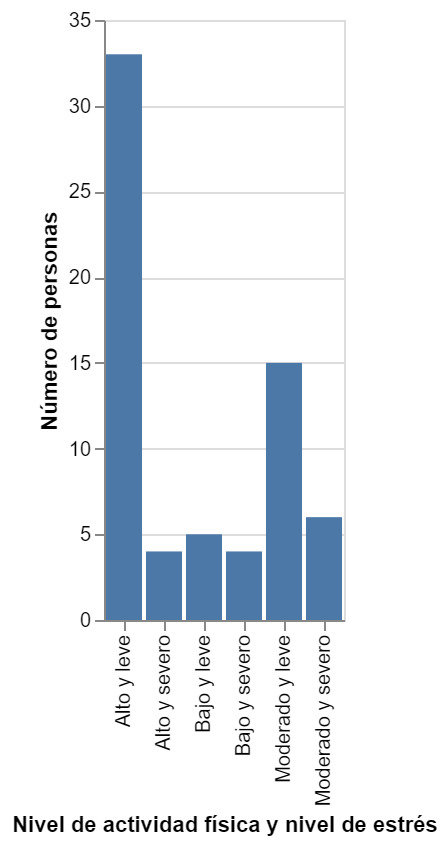
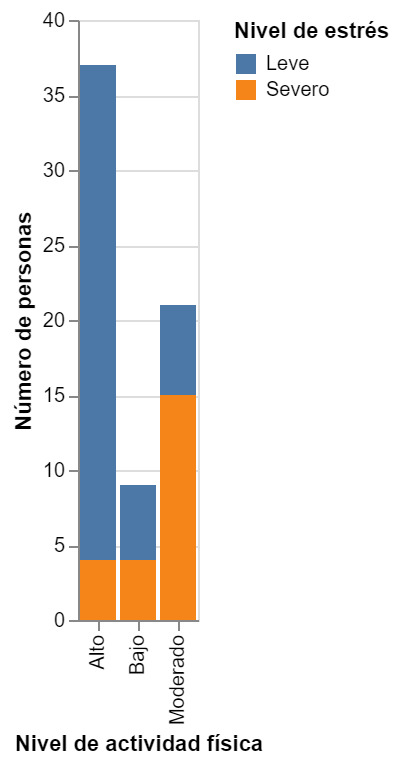
.

Changed region(s): [[0.03, 0.0, 0.99, 0.9909]]

diff --git a/Entregas/Entrega_04/Rodriguez_Integrante_03_Vicente_vis/visualizacion/vis_03_3.html.html b/Entregas/Entrega_04/Rodriguez_Integrante_03_Vicente_vis/visualizacion/vis_03_3.html.html
@@ -10,40 +10,49 @@
   <script>
     const spec = {
   "config": {"view": {"continuousWidth": 400, "continuousHeight": 300}},
-  "data": {"name": "data-53ed202127a2554000108d2fcf9eec09"},
+  "data": {"name": "data-76d710328cda13b9c3522355a614866b"},
   "mark": "bar",
   "encoding": {
-    "x": {
-      "field": "Nivel de actividad física y nivel de estrés",
-      "type": "nominal"
-    },
+    "color": {"field": "Nivel de estrés", "type": "nominal"},
+    "tooltip": [
+      {"field": "Nivel de actividad física", "type": "nominal"},
+      {"field": "Nivel de estrés", "type": "nominal"},
+      {"field": "Número de personas", "type": "quantitative"}
+    ],
+    "x": {"field": "Nivel de actividad física", "type": "nominal"},
     "y": {"field": "Número de personas", "type": "quantitative"}
   },
   "$schema": "https://vega.github.io/schema/vega-lite/v4.17.0.json",
   "datasets": {
-    "data-53ed202127a2554000108d2fcf9eec09": [
+    "data-76d710328cda13b9c3522355a614866b": [
       {
-        "Nivel de actividad física y nivel de estrés": "Bajo y leve",
+        "Nivel de actividad física": "Bajo",
+        "Nivel de estrés": "Leve",
         "Número de personas": 5
       },
       {
-        "Nivel de actividad física y nivel de estrés": "Bajo y severo",
+        "Nivel de actividad física": "Bajo",
+        "Nivel de estrés": "Severo",
         "Número de personas": 4
       },
       {
-        "Nivel de actividad física y nivel de estrés": "Moderado y leve",
+        "Nivel de actividad física": "Moderado",
+        "Nivel de estrés": "Severo",
         "Número de personas": 15
       },
       {
-        "Nivel de actividad física y nivel de estrés": "Moderado y severo",
+        "Nivel de actividad física": "Moderado",
+        "Nivel de estrés": "Leve",
         "Número de personas": 6
       },
       {
-        "Nivel de actividad física y nivel de estrés": "Alto y leve",
+        "Nivel de actividad física": "Alto",
+        "Nivel de estrés": "Leve",
         "Número de personas": 33
       },
       {
-        "Nivel de actividad física y nivel de estrés": "Alto y severo",
+        "Nivel de actividad física": "Alto",
+        "Nivel de estrés": "Severo",
         "Número de personas": 4
       }
     ]
